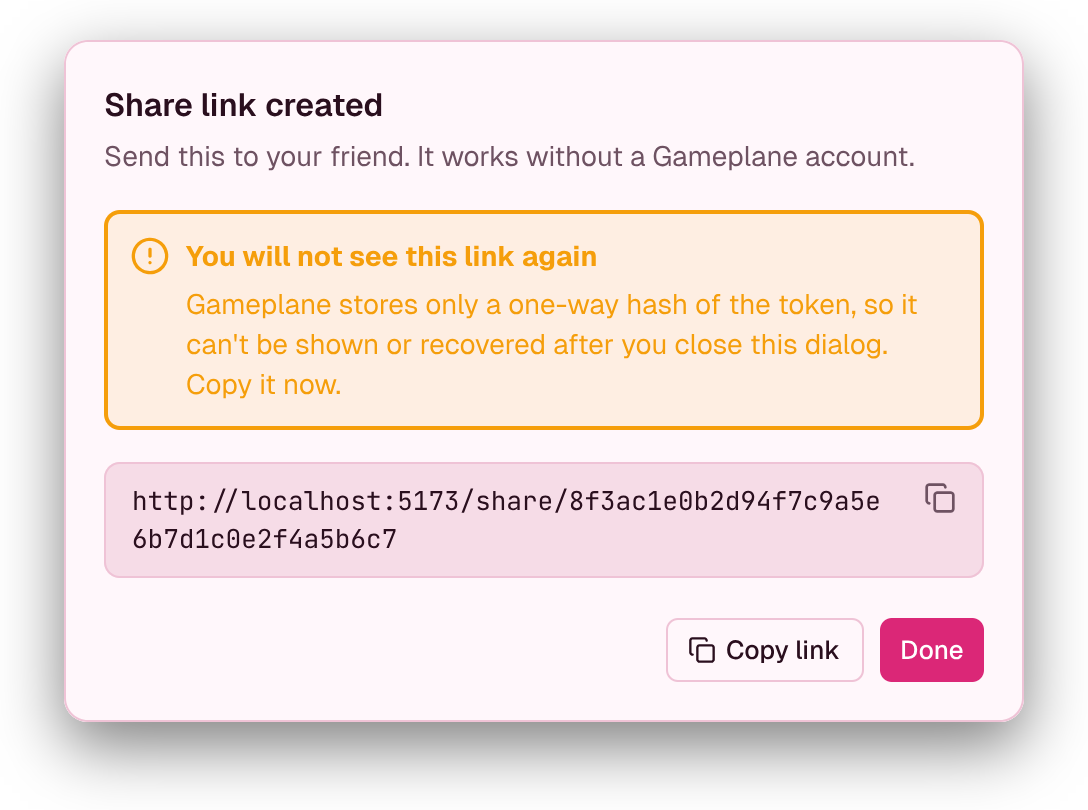
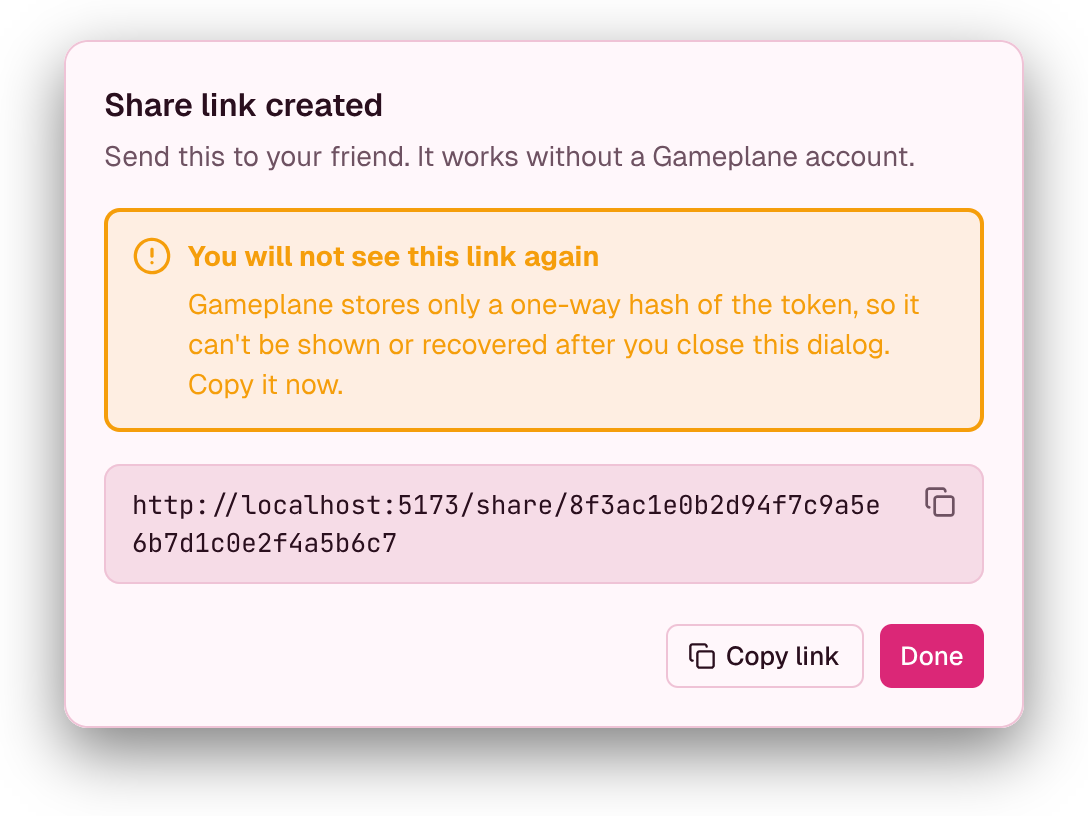
design: OD-27 round-12 VM7ro box metrics and S7SCDc crop registration
Closes the last two failing screens on the design vs browser visual diff
job (105/107 at 62c4032f).

VM7ro (Share link created) — design only, three VM7ro-local descendant
overrides, shared master x3beP untouched:

  - qzcst (mDesc) gains lineHeight 1.4286 (20/14). The master's 1.5
    renders a 21 CSS px line box against the browser's text-sm 20 px,
    pushing everything below the subtitle down 1 CSS px. E9EEv0 already
    carries the identical frame-local override, so this is an established
    mechanism, not a new one, and the other twelve x3beP instances do
    not move.
  - Hp206 (warningBox) padding 13 -> 14, matching the browser's border-2
    + p-3 = 14 CSS px inset (110 -> 112 CSS px tall).
  - SICns (tokenRow) padding [10,14] -> [11,14], matching the browser's
    border + p-2.5 = 11 CSS px vertical inset (58 -> 60 CSS px tall).

Net +3 CSS px: the design dialog now measures 344 CSS px, exactly the
browser capture's 344, and every element registers. The crop rect follows
the re-export, 960x682 -> 960x688.

This does not touch E7Whx and is not a re-raise of the OD-26 clause
withdrawn in round 11 — that was a baseline nudge on the shared master's
title node; this is a line-box height override on a different node, held
frame-local.

S7SCDc (Revoke share link) — harness only, no design and no app change.
OD-26 assumed the capture's 2 CSS px of modal backdrop were split 1 per
edge, but the capture carries its panel at rows 0-379 of the 880x384 crop
[…]

diff --git a/specs/014-heroui-web-rebuild/OPEN-DECISIONS.md b/specs/014-heroui-web-rebuild/OPEN-DECISIONS.md
@@ -30,6 +30,7 @@ Values here are not traceable to `spec.md`, `CLAUDE.md` or the constitution. Eac
 | OD-24 | Share-link dialogs and keyboard focus, visual-diff round 8 (atqRh, VM7ro, S7SCDc; T207). | Create share link (atqRh): the "Allow starting the server" switch stays on the left, with its label and its explanation on separate lines (app); the design moves its switch to the left to match. The "Create link" button shows the chain-link icon before its label (app follows the design). Share link created (VM7ro): the app's current warning box stays (border-2 warning border, warning/10 fill, circled-! icon, bold heading) and the design is redrawn to match it; "Copy link" moves from inside the link box to an outlined button beside "Done" in the footer, the link box gets a border, and a small copy icon sits in the box's top-right corner (app follows the design). Revoke share link (S7SCDc): the app keeps its danger icon beside the title, as in the other danger confirmations; the design adds it. Keyboard (T207, SC-007): a focused table row keeps HeroUI's ring on its cells and also gets a row-level accent ring (a thicker, doubled ring). | Settled 2026-09-19 (maintainer, round 8) |
 | OD-25 | Share-link dialog details, visual-diff round 9 (VM7ro, S7SCDc, atqRh). | Share link created (VM7ro): the design's warning box is pinned to the browser's measured height (padding adjusted) and its paragraph hard-wrapped at the browser's break points, as OD-21 settled for Kp48V — design only. The app takes the design's link box (`p-2.5 px-3.5`, 13px mono) and the design's small-button footer spec (14px icon, 5px gap, 13px label) for the share-link dialogs. The design's example URL becomes the exact URL the capture renders. Revoke share link (S7SCDc): the title-to-description gap is 16px everywhere, so the design gains the descendant override Kp48V already carries (aZP2h padding [16,0,0,0]); the description renders muted, as the shared ConfirmDialog and the design both say. Create share link (atqRh): the app paints dialog select values in `--field-placeholder` (grey, as the design draws them); the design follows the app for the helper line (12px), the switch label (14px), the switch explanation (12px), the footer buttons (14px label, 16px icon) and the switch track (40px wide with a 12px row gap). Dialog titles: the shared Gameplane/Modal title node gains an explicit lineHeight so every dialog header matches the browser, and every frame instancing it is re-exported. The 1 CSS px of residual half-leading placement this left on every `x3beP` dialog title is settled and needs no action: the round-10 clause to nudge it was **withdrawn** by the maintainer in round 11 (see the OD-26 amendment below) — later rounds should cite that and leave both sides alone. | Settled 2026-09-20 (maintainer, round 9) |
 | OD-26 | Share-link dialog geometry and capture registration, visual-diff round 10 (atqRh, VM7ro, S7SCDc). | Create share link (atqRh): the design follows the app for the two gaps the app does not have (N4srNq gap 6 -> 4, uuUdx gap 4 -> 0), and the shared small-button masters j9c5W and rkF0p take padding [8, 10] so the footer button stops rendering 7 CSS px wider than the browser's — check the other footers before committing. Share link created (VM7ro): the design's URL text gains lineHeight 1.4615 (19/13) so the link box matches the browser's height; the warning and link boxes use an inside stroke alignment so they measure 440 CSS like the browser's border-box; **[WITHDRAWN: see amendment below]** the shared modal title's baseline is nudged 1 CSS px and every instancing frame re-exported; the design's Copy link button is pinned to 99 CSS px. Revoke share link (S7SCDc): the capture keeps 1 CSS px of modal backdrop per edge and capture.ts stays as it is — the reference side absorbs it, so S7SCDc's crop rect accounts for that 1 CSS px. Harness: REFERENCE_CROP_ALLOWLIST is re-measured for all three frames from the alpha>=250 bboxes, but only after the atqRh gap fix lands, so the two halves agree on height first. Text-advance drift (the residual on every text-heavy frame): investigate centrally — confirm which face $typography/font-sans and font-mono resolve to in the Pencil export against the browser's computed font-family for .modal__dialog, and fix the token if they differ, before any frame is granted a threshold exception. | Settled 2026-09-20 (maintainer, round 10); amendment 2026-09-20 |
+| OD-27 | Share-link dialog box metrics and capture registration, visual-diff round 12 (VM7ro, S7SCDc). | Share link created (VM7ro): three VM7ro-local descendant overrides close the last 3 CSS px. All three are follow-through on OD-25's "the design's warning box is pinned to the browser's measured height" and OD-26's "the link box matches the browser's height", with corrected figures; the shared master `x3beP` is NOT touched and the other twelve instancing frames do not move. (1) `qzcst` (mDesc) gains `lineHeight` 1.4286 (20/14): the master's 1.5 renders a 21 CSS px line box against the browser's `text-sm` 20 px, which pushed everything below the subtitle down 1 CSS px — the identical frame-local override `E9EEv0` already carries, so this is an established mechanism and not a new one. (2) `Hp206` (warningBox) padding 13 -> 14, matching the browser's `border-2` + `p-3` = 14 CSS px inset (box 110 -> 112 CSS px tall). (3) `SICns` (tokenRow) padding [10,14] -> [11,14], matching the browser's `border` + `p-2.5` = 11 CSS px vertical inset (box 58 -> 60 CSS px tall). Net: the design dialog measures 344 CSS px, exactly the browser capture's 344, and every element registers. This is distinct from, and does not resolve, OD-26's central text-advance-drift investigation. Revoke share link (S7SCDc): harness only, no design and no app change. OD-26 assumed the capture's 2 CSS px of modal backdrop were split 1 per edge, but the measured capture carries its panel at rows 0-379 of the 880x384 crop (0 device px above, 4 below), so a top-38 reference crop put the design panel at rows 2-381 and mis-registered every glyph by 2 device px (CI 5.72% global, over the 4% gate). `REFERENCE_CROP_ALLOWLIST.S7SCDc` now registers on the panel's own top edge (`top` 38 -> 40, height still 384); the reference side still absorbs the difference exactly as OD-26 settled. Locally re-measured with the real pixelmatch against the CI artifact: 5.72% -> 2.91% global, 11.76% -> 5.67% block. | Settled 2026-09-20 (maintainer, round 12) |
 
 ---
 

diff --git a/design-export/MANIFEST.md b/design-export/MANIFEST.md
@@ -1954,3 +1954,19 @@ Note: this table uses inclusive maxes while `web/scripts/compare-screenshots.mjs
 `S7SCDc.png` was not re-exported this round — it does not instance `x3beP` (it instances the separate `WwNlX` Confirm Dialog master) and does not reference `j9c5W`/`rkF0p`/`z9ShNE`/`J09iP` anywhere in its tree (checked live via `Get("S7SCDc", (n,c) => ...)`), so it is outside every blast radius touched this round; the bbox above is measured from the existing, unchanged file for the harness step's convenience. `VM7ro.png`'s dimensions themselves (1088×810) are unchanged from the round-10 entry and were re-verified correct; the correction here is to the bbox/panel figures, and to the round-10 blast-radius and re-export-list claims above.
 
 No `.pen` file was Read/Grep/cat/sed this round — all access via Pencil MCP `get_app_state`/`execute`/`export_nodes`/`get_screenshot`. No `git checkout`/`restore`/`stash`/`rm` was run, and nothing in `design-export/` or `design.pen` was staged or committed by this pass.
+
+## Round-12 — OD-27 VM7ro-local overrides (2026-09-20)
+
+Per maintainer ruling OD-27 (`specs/014-heroui-web-rebuild/OPEN-DECISIONS.md`), three VM7ro-local descendant overrides were applied on `VM7ro` (Share link created), a ref instance of the shared master `x3beP`. The master `x3beP` and the other 12 instancing frames were not touched.
+
+1. `qzcst` (mDesc): added `lineHeight: 1.4286` alongside its existing `content` override (master's 1.5 renders 21 CSS px against the browser's `text-sm` 20 px).
+2. `Hp206` (warningBox): `padding` 13 → 14 (single number, uniform), matching browser `border-2` + `p-3` = 14 CSS px inset. All other properties (`strokeWidth: 2`, `strokeAlignment: "inner"`, `gap: 8`, `cornerRadius: 8`, fills) unchanged.
+3. `SICns` (tokenRow): `padding` `[10, 14]` → `[11, 14]`, matching browser `border` + `p-2.5` = 11 CSS px vertical inset. All other properties unchanged.
+
+Applied via `Update("VM7ro/qzcst", {...})`, `Update("VM7ro/Hp206", {...})`, `Update("VM7ro/SICns", {...})` through the Pencil `execute` tool. Read back immediately via `Get("VM7ro/<id>")` for each, confirming exact values before and after export.
+
+**Export method & validation:** JSON via `Get("VM7ro", {depth: 30})`, zero elision markers, re-serialized with `json.dump(indent=2, ensure_ascii=False)` + trailing newline; `python3 -m json.tool` passes. Screenshot via `export_nodes` at 2x scale → `VM7ro.png` 1088×816 RGBA, non-empty. Content check: `"Send this to your friend"` (qzcst's body text) found exactly once across all exports, in `VM7ro.json` only. Confirmed in the re-exported JSON: `descendants.qzcst.lineHeight === 1.4286`, `descendants.Nht52.children[0].padding === 14` (Hp206), `descendants.Nht52.children[1].padding === [11, 14]` (SICns).
+
+Only `VM7ro` was re-exported this round — none of the other 12 `x3beP` instances carry these overrides, so their JSON/PNG exports are unaffected and were not touched.
+
+No `.pen` file was Read/Grep/cat/sed this round — all access via Pencil MCP `execute`/`export_nodes`. The `.pen` file itself was not saved (per task instructions, the maintainer saves via the GUI). No git add/commit was performed by this pass.
